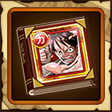
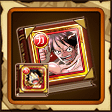
new png jp

diff --git a/index-jp.html b/index-jp.html
@@ -2860,13 +2860,13 @@
         <div align="center" style="position: absolute; left: 114px; top: 32253px; width: 113px; height: 18px; font-family: &quot;Arial Black&quot;, Gadget, sans-serif; font-size: 18px; color: white; text-shadow: 1px 1px black, -1px -1px black, -1px 1px black, 1px -1px black">No.1422</div>
         <div style="position: absolute; left: 227px; top: 32168px"><img class="thumbnail" src="png/jp/character_none.png" data-title="" data-name="" data-skill="png/jp/character_9999_t1.png" data-portrait="png/jp/character_9999_t1.png"></div>
         <div align="center" style="position: absolute; left: 227px; top: 32253px; width: 113px; height: 18px; font-family: &quot;Arial Black&quot;, Gadget, sans-serif; font-size: 18px; color: white; text-shadow: 1px 1px black, -1px -1px black, -1px 1px black, 1px -1px black">No.1423</div>
-        <div style="position: absolute; left: 340px; top: 32168px"><img class="thumbnail" src="png/jp/character_none.png" data-title="" data-name="" data-skill="png/jp/character_9999_t1.png" data-portrait="png/jp/character_9999_t1.png"></div>
+        <div style="position: absolute; left: 340px; top: 32168px"><img class="thumbnail" src="png/jp/character_1575_t1.png" data-title="海賊艦隊　戦闘“総隊長”" data-name="ギン" data-skill="png/jp/character_9999_t1.png" data-portrait="png/jp/character_1575_c1.png"></div>
         <div align="center" style="position: absolute; left: 340px; top: 32253px; width: 113px; height: 18px; font-family: &quot;Arial Black&quot;, Gadget, sans-serif; font-size: 18px; color: white; text-shadow: 1px 1px black, -1px -1px black, -1px 1px black, 1px -1px black">No.1424</div>
-        <div style="position: absolute; left: 453px; top: 32168px"><img class="thumbnail" src="png/jp/character_none.png" data-title="" data-name="" data-skill="png/jp/character_9999_t1.png" data-portrait="png/jp/character_9999_t1.png"></div>
+        <div style="position: absolute; left: 453px; top: 32168px"><img class="thumbnail" src="png/jp/character_1582_t1.png" data-title="八宝水軍" data-name="サイ" data-skill="png/jp/character_9999_t1.png" data-portrait="png/jp/character_1582_c1.png"></div>
         <div align="center" style="position: absolute; left: 453px; top: 32253px; width: 113px; height: 18px; font-family: &quot;Arial Black&quot;, Gadget, sans-serif; font-size: 18px; color: white; text-shadow: 1px 1px black, -1px -1px black, -1px 1px black, 1px -1px black">No.1425</div>
-        <div style="position: absolute; left: 1px; top: 32281px"><img class="thumbnail" src="png/jp/character_none.png" data-title="" data-name="" data-skill="png/jp/character_9999_t1.png" data-portrait="png/jp/character_9999_t1.png"></div>
+        <div style="position: absolute; left: 1px; top: 32281px"><img class="thumbnail" src="png/jp/character_1583_t1.png" data-title="八宝水軍第１３代棟梁" data-name="サイ" data-skill="png/jp/character_9999_t1.png" data-portrait="png/jp/character_9999_t1.png"></div>
         <div align="center" style="position: absolute; left: 1px; top: 32366px; width: 113px; height: 18px; font-family: &quot;Arial Black&quot;, Gadget, sans-serif; font-size: 18px; color: white; text-shadow: 1px 1px black, -1px -1px black, -1px 1px black, 1px -1px black">No.1426</div>
-        <div style="position: absolute; left: 114px; top: 32281px"><img class="thumbnail" src="png/jp/character_none.png" data-title="" data-name="" data-skill="png/jp/character_9999_t1.png" data-portrait="png/jp/character_9999_t1.png"></div>
+        <div style="position: absolute; left: 114px; top: 32281px"><img class="thumbnail" src="png/jp/character_1584_t1.png" data-title="八宝水軍" data-name="ブー" data-skill="png/jp/character_9999_t1.png" data-portrait="png/jp/character_1584_c1.png"></div>
         <div align="center" style="position: absolute; left: 114px; top: 32366px; width: 113px; height: 18px; font-family: &quot;Arial Black&quot;, Gadget, sans-serif; font-size: 18px; color: white; text-shadow: 1px 1px black, -1px -1px black, -1px 1px black, 1px -1px black">No.1427</div>
         <div style="position: absolute; left: 227px; top: 32281px"><img class="thumbnail" src="png/jp/character_1585_t1.png" data-title="" data-name="ジャン・アンゴ" data-skill="png/jp/character_9999_t1.png" data-portrait="png/jp/character_1585_c1.png"></div>
         <div align="center" style="position: absolute; left: 227px; top: 32366px; width: 113px; height: 18px; font-family: &quot;Arial Black&quot;, Gadget, sans-serif; font-size: 18px; color: white; text-shadow: 1px 1px black, -1px -1px black, -1px 1px black, 1px -1px black">No.1428</div>

diff --git a/index.html b/index.html
@@ -2860,13 +2860,13 @@
         <div align="center" style="position: absolute; left: 114px; top: 32253px; width: 113px; height: 18px; font-family: &quot;Arial Black&quot;, Gadget, sans-serif; font-size: 18px; color: white; text-shadow: 1px 1px black, -1px -1px black, -1px 1px black, 1px -1px black">No.1422</div>
         <div style="position: absolute; left: 227px; top: 32168px"><img class="thumbnail" src="png/tw/character_none.png" data-title="" data-name="" data-skill="png/tw/character_9999_t1.png" data-portrait="png/tw/character_9999_t1.png"></div>
         <div align="center" style="position: absolute; left: 227px; top: 32253px; width: 113px; height: 18px; font-family: &quot;Arial Black&quot;, Gadget, sans-serif; font-size: 18px; color: white; text-shadow: 1px 1px black, -1px -1px black, -1px 1px black, 1px -1px black">No.1423</div>
-        <div style="position: absolute; left: 340px; top: 32168px"><img class="thumbnail" src="png/tw/character_none.png" data-title="" data-name="" data-skill="png/tw/character_9999_t1.png" data-portrait="png/tw/character_9999_t1.png"></div>
+        <div style="position: absolute; left: 340px; top: 32168px"><img class="thumbnail" src="png/jp/character_1575_t1.png" data-title="海賊艦隊　戦闘“総隊長”" data-name="ギン" data-skill="png/tw/character_9999_t1.png" data-portrait="png/jp/character_1575_c1.png"></div>
         <div align="center" style="position: absolute; left: 340px; top: 32253px; width: 113px; height: 18px; font-family: &quot;Arial Black&quot;, Gadget, sans-serif; font-size: 18px; color: white; text-shadow: 1px 1px black, -1px -1px black, -1px 1px black, 1px -1px black">No.1424</div>
-        <div style="position: absolute; left: 453px; top: 32168px"><img class="thumbnail" src="png/tw/character_none.png" data-title="" data-name="" data-skill="png/tw/character_9999_t1.png" data-portrait="png/tw/character_9999_t1.png"></div>
+        <div style="position: absolute; left: 453px; top: 32168px"><img class="thumbnail" src="png/jp/character_1582_t1.png" data-title="八宝水軍" data-name="サイ" data-skill="png/tw/character_9999_t1.png" data-portrait="png/jp/character_1582_c1.png"></div>
         <div align="center" style="position: absolute; left: 453px; top: 32253px; width: 113px; height: 18px; font-family: &quot;Arial Black&quot;, Gadget, sans-serif; font-size: 18px; color: white; text-shadow: 1px 1px black, -1px -1px black, -1px 1px black, 1px -1px black">No.1425</div>
-        <div style="position: absolute; left: 1px; top: 32281px"><img class="thumbnail" src="png/tw/character_none.png" data-title="" data-name="" data-skill="png/tw/character_9999_t1.png" data-portrait="png/tw/character_9999_t1.png"></div>
+        <div style="position: absolute; left: 1px; top: 32281px"><img class="thumbnail" src="png/jp/character_1583_t1.png" data-title="八宝水軍第１３代棟梁" data-name="サイ" data-skill="png/tw/character_9999_t1.png" data-portrait="png/tw/character_9999_t1.png"></div>
         <div align="center" style="position: absolute; left: 1px; top: 32366px; width: 113px; height: 18px; font-family: &quot;Arial Black&quot;, Gadget, sans-serif; font-size: 18px; color: white; text-shadow: 1px 1px black, -1px -1px black, -1px 1px black, 1px -1px black">No.1426</div>
-        <div style="position: absolute; left: 114px; top: 32281px"><img class="thumbnail" src="png/tw/character_none.png" data-title="" data-name="" data-skill="png/tw/character_9999_t1.png" data-portrait="png/tw/character_9999_t1.png"></div>
+        <div style="position: absolute; left: 114px; top: 32281px"><img class="thumbnail" src="png/jp/character_1584_t1.png" data-title="八宝水軍" data-name="ブー" data-skill="png/tw/character_9999_t1.png" data-portrait="png/jp/character_1584_c1.png"></div>
         <div align="center" style="position: absolute; left: 114px; top: 32366px; width: 113px; height: 18px; font-family: &quot;Arial Black&quot;, Gadget, sans-serif; font-size: 18px; color: white; text-shadow: 1px 1px black, -1px -1px black, -1px 1px black, 1px -1px black">No.1427</div>
         <div style="position: absolute; left: 227px; top: 32281px"><img class="thumbnail" src="png/jp/character_1585_t1.png" data-title="" data-name="ジャン・アンゴ" data-skill="png/tw/character_9999_t1.png" data-portrait="png/jp/character_1585_c1.png"></div>
         <div align="center" style="position: absolute; left: 227px; top: 32366px; width: 113px; height: 18px; font-family: &quot;Arial Black&quot;, Gadget, sans-serif; font-size: 18px; color: white; text-shadow: 1px 1px black, -1px -1px black, -1px 1px black, 1px -1px black">No.1428</div>
